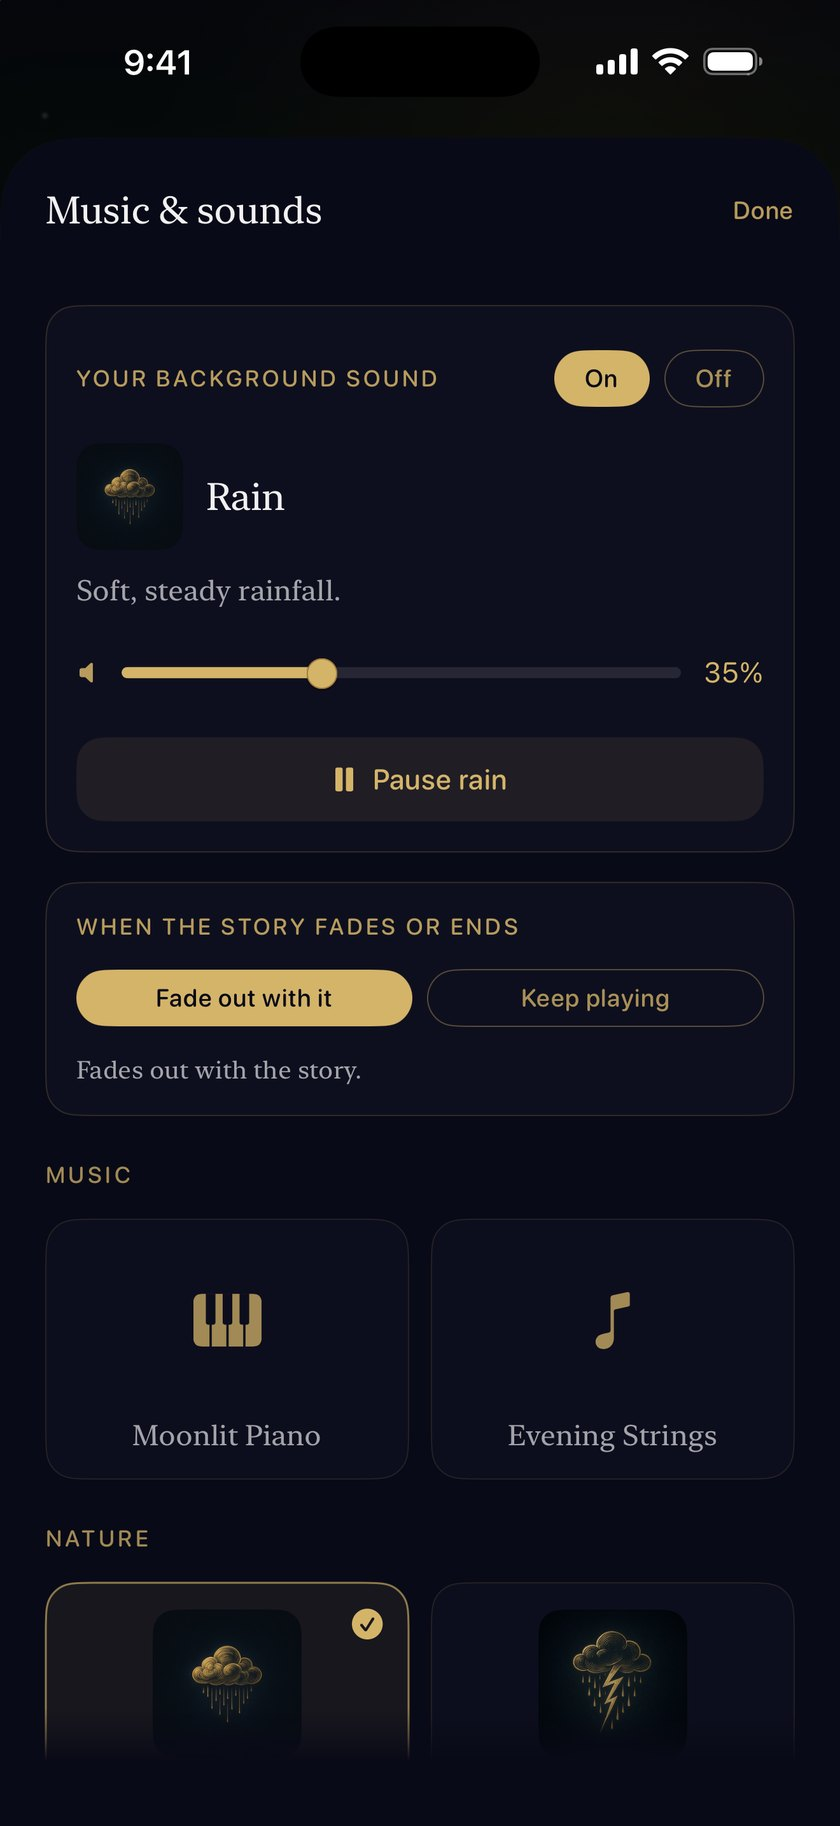
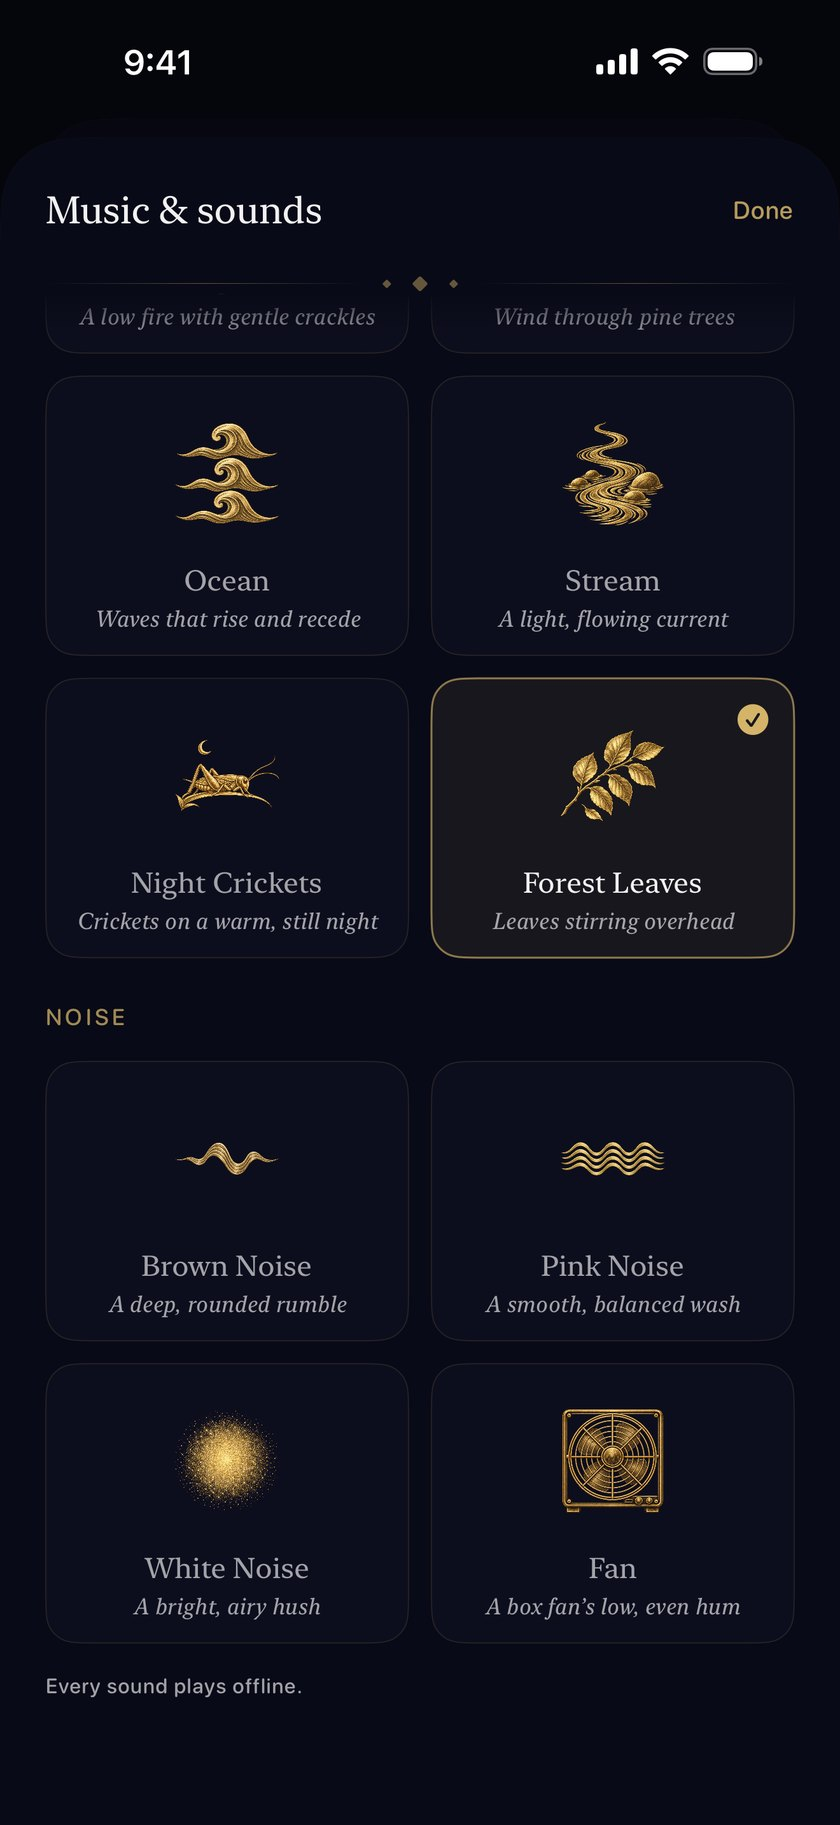
Refresh Nightshelf web screenshots from version 1.9.10

diff --git a/nightshelf/index.html b/nightshelf/index.html
@@ -762,7 +762,7 @@
       </div>
       <div class="device-wrap reveal">
         <div class="device">
-          <img src="shots/home.jpg?v=20261002-b56" alt="Nightshelf on iPhone — continue The Adventures of Sherlock Holmes or Treasure Island, open Short Listens, or read tonight's featured Frankenstein." width="840" height="1826" loading="lazy" data-allow-duplicate="true">
+          <img src="shots/home.jpg?v=20261006-b61" alt="Nightshelf home — Saved for Later with The Adventures of Sherlock Holmes, Pride and Prejudice, and The Odyssey." width="840" height="1825" loading="lazy" data-allow-duplicate="true">
         </div>
       </div>
       <div class="chip-col right" aria-hidden="true">
@@ -782,10 +782,10 @@
       
       <div class="gallery-shell reveal">
         <div class="gallery-row">
-          <figure class="shot"><div class="frame"><img src="shots/home.jpg?v=20261002-b56" alt="Nightshelf home — continue The Adventures of Sherlock Holmes or Treasure Island, open Short Listens, or read tonight's featured Frankenstein." loading="lazy" width="840" height="1826" data-allow-duplicate="true"></div><figcaption class="cap">A shelf for the night</figcaption></figure>
-          <figure class="shot"><div class="frame"><img src="shots/reader.jpg?v=20261002-b56" alt="The Nightshelf reader playing The Wind in the Willows aloud in the iPhone voice — 15-second skips, a chapter progress bar, and a sleep timer that fades the narration out." loading="lazy" width="840" height="1826"></div><figcaption class="cap">Read along, or listen</figcaption></figure>
+          <figure class="shot"><div class="frame"><img src="shots/home.jpg?v=20261006-b61" alt="Nightshelf home — Saved for Later with The Adventures of Sherlock Holmes, Pride and Prejudice, and The Odyssey." loading="lazy" width="840" height="1825" data-allow-duplicate="true"></div><figcaption class="cap">A shelf for the night</figcaption></figure>
+          <figure class="shot"><div class="frame"><img src="shots/reader.jpg?v=20261006-b61" alt="The Nightshelf reader paused on The Wind in the Willows, with 15-second skips, chapter progress, and a 30-minute sleep timer." loading="lazy" width="840" height="1825"></div><figcaption class="cap">Read along, or listen</figcaption></figure>
           <figure class="shot"><div class="frame"><img src="shots/originals.jpg?v=20261002-b56" alt="Nightshelf Originals — 11 choices, with The Evening They Kept and The Lantern Ferry showing their listening times and AI-generated labels." loading="lazy" width="840" height="1826"></div><figcaption class="cap">Nightshelf Originals</figcaption></figure>
-          <figure class="shot"><div class="frame"><img src="shots/ambient.jpg?v=20261002-b56" alt="The Nightshelf Music & sounds sheet — rain playing softly under the story with its own volume, a choice to fade it with the story or keep it playing, and piano, strings and nature sounds to choose from." loading="lazy" width="840" height="1825"></div><figcaption class="cap">Music &amp; sounds underneath</figcaption></figure>
+          <figure class="shot"><div class="frame"><img src="shots/ambient.jpg?v=20261006-b61" alt="Nightshelf Music & sounds — Forest Leaves selected, alongside nature sounds and Brown Noise, Pink Noise, White Noise and Fan." loading="lazy" width="840" height="1825"></div><figcaption class="cap">Music &amp; sounds underneath</figcaption></figure>
           <figure class="shot"><div class="frame"><img src="shots/chapters.jpg?v=20261002-b56" alt="The Nightshelf chapter list for The Wind in the Willows, with each chapter's listening time — jump to any chapter with one tap." loading="lazy" width="840" height="1826"></div><figcaption class="cap">Skip to any chapter</figcaption></figure>
         </div>
       </div>
